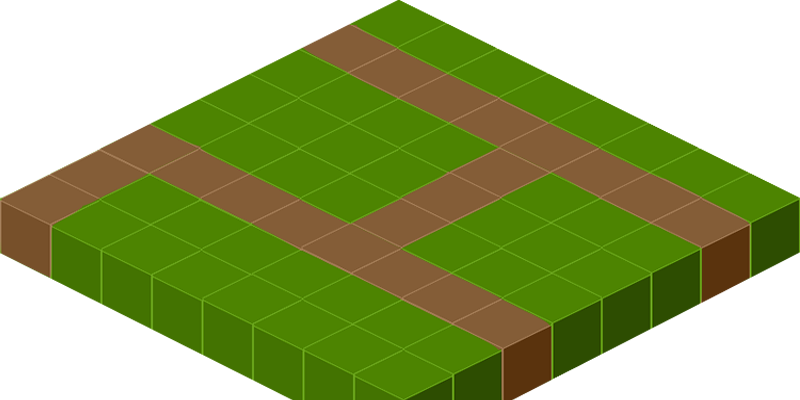
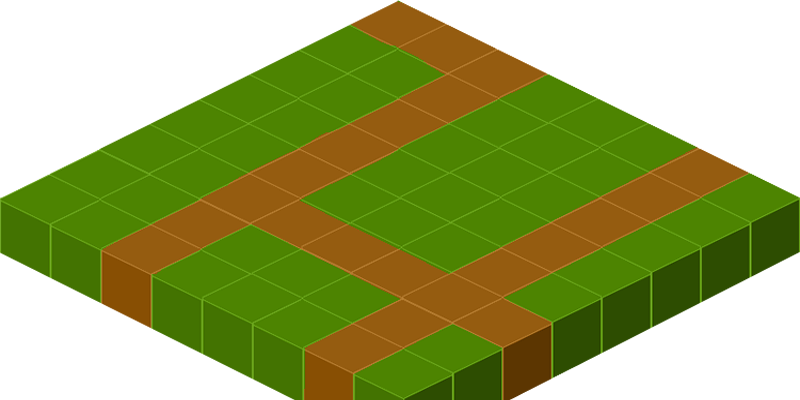
Added isometric sprites, and positioning

diff --git a/asset/js/funcoding.js b/asset/js/funcoding.js
@@ -118,7 +118,7 @@ FunCoding = (function() {
             },
 
             'w': {
-                set: function(w) { this.node.css('width', (w * 2) + 'px'); console.log(w*2); },
+                set: function(w) { this.node.css('width', (w * 2) + 'px'); },
                 get: function() { return parseInt(this.node.css('width')) / 2; } },
 
             'h': {
@@ -154,8 +154,6 @@ FunCoding = (function() {
             if(time) {
                 var isoX = x - y;
                 var isoY = (x + y) / 2;
-                console.log(x + " " + y);
-                console.log(isoX + " " + isoY);
                 this.node.animate({
                     left: isoX + 400,
                     top:  isoY,
@@ -336,7 +334,7 @@ FunCoding = (function() {
         function ExclamationMark(r, c, root, takeAnimCb, useCb) {
             this.baseClass.call(this,
                 new GameObject(
-                    $('<image src="asset/img/point.png" style="top:10px;left:10px;width:30px"/>'),
+                    $('<image src="asset/img/point.png" style="top:0px;left:0px;width:50px"/>'),
                     (c * 50), (r * 50)
                 ).addTo(root),
                 undefined, undefined, takeAnimCb, useCb
@@ -512,7 +510,6 @@ FunCoding = (function() {
                     }
                 ]);
             } else {
-                console.log(thiz.obj.x + " " + thiz.obj.y);
                 return sequence([
                     function(finish) {
                         thiz.setObjPos(br, bc);
@@ -552,19 +549,19 @@ FunCoding = (function() {
 
         Player.getNormalFace = function() {
             return [
-                $('<img style="height:40px;left:12px;top:5px;" src="asset/img/Orang_up.png"/>'),
-                $('<img style="height:40px;left:12px;top:5px;" src="asset/img/Orang_left.png"/>'),
-                $('<img style="height:40px;left:12px;top:5px;" src="asset/img/Orang_down.png"/>'),
-                $('<img style="height:40px;left:12px;top:5px;" src="asset/img/Orang_right.png"/>'),
+                $('<img style="height:40px;left:15px;" src="asset/img/Orang_up.png"/>'),
+                $('<img style="height:40px;left:15px;" src="asset/img/Orang_left.png"/>'),
+                $('<img style="height:40px;left:15px;" src="asset/img/Orang_down.png"/>'),
+                $('<img style="height:40px;left:15px;" src="asset/img/Orang_right.png"/>'),
             ];
         }
 
         Player.getBikerFace = function() {
             return [
-                $('<img style="height:40px;left:12px;top:5px;" src="asset/img/Motor_up.png"/>'),
-                $('<img style="height:40px;left:12px;top:5px;" src="asset/img/Motor_left.png"/>'),
-                $('<img style="height:40px;left:12px;top:5px;" src="asset/img/Motor_down.png"/>'),
-                $('<img style="height:40px;left:12px;top:5px;" src="asset/img/Motor_right.png"/>'),
+                $('<img style="height:40px;left:12px;" src="asset/img/Motor_up.png"/>'),
+                $('<img style="height:40px;left:12px;" src="asset/img/Motor_left.png"/>'),
+                $('<img style="height:40px;left:12px;" src="asset/img/Motor_down.png"/>'),
+                $('<img style="height:40px;left:12px;" src="asset/img/Motor_right.png"/>'),
             ];
         }
 

diff --git a/asset/js/level3_backend.js b/asset/js/level3_backend.js
@@ -31,7 +31,8 @@ $(function() {
     // static image
     (function() {
         new FunCoding.GameObject(
-            $('<image style="width:400px;height:400px" src="asset/img/supermarket-lantai 8x8.png"/>')
+            $('<image style="width:800px;height:400px" src="asset/img/supermarket-lantai 8x8.png"/>'),
+            -187.5, 187.5
         ).addTo(root);
 
         for(r in obstacle) for(c in obstacle[r]) {
@@ -59,7 +60,7 @@ $(function() {
                 new FunCoding.GameObject(
                     [
                         $('<image style="top:8px;width:50px" src="asset/img/table.png"/>'),
-                        $('<image style="left:10px;width:30px" src="asset/img/supermarket-keju.png" />')
+                        $('<image style="top:5px;left:10px;width:30px" src="asset/img/supermarket-keju.png" />')
                     ],
                     (c * 50), (r * 50)
                 ).addTo(root);
@@ -97,14 +98,14 @@ $(function() {
 
             else if(obstacle[r][c] == 9) {
                 new FunCoding.GameObject(
-                    $('<image src="asset/img/supermarket-kasir.png" style="height:40px;left:12px;top:5px;"/>'),
+                    $('<image src="asset/img/supermarket-kasir.png" style="height:40px;"/>'),
                     (c * 50), (r * 50)
                 ).addTo(root);
             }
         }
 
         new FunCoding.GameObject(
-            $('<img src="asset/img/Mat.png" style="height:40px;left:5px;top:12px;"/>'),
+            $('<img src="asset/img/Mat.png" style="width:50px;left:5px;top:12px;"/>'),
             (endpoint.c * 50), (endpoint.r * 50)
         ).addTo(root)
     })();

diff --git a/asset/js/level1_backend.js b/asset/js/level1_backend.js
@@ -38,20 +38,20 @@ $(function() {
         for(r in obstacle) for(c in obstacle[r]) {
             if(obstacle[r][c] == 1) {
                 new FunCoding.GameObject(
-                    $('<image style="top:0px;width:50px" src="asset/img/table.png"/>'),
+                    $('<image style="top:8px;width:50px" src="asset/img/table.png"/>'),
                     (c * 50), (r * 50)
                 ).addTo(root);
             }
             else if(obstacle[r][c] == 9) {
                 new FunCoding.GameObject(
-                    $('<image src="asset/img/Mother.png" style="height:40px;left:12px;top:5px;"/>'),
+                    $('<image src="asset/img/Mother.png" style="height:40px;left:12px;"/>'),
                     (c * 50), (r * 50)
                 ).addTo(root);
             }
         }
 
         new FunCoding.GameObject(
-            $('<img src="asset/img/Mat.png" style="height:40px;left:5px;top:12px;"/>'),
+            $('<img src="asset/img/Mat.png" style="width:50px;left:15px;top:15px;"/>'),
             (endpoint.ec * 50), (endpoint.er * 50)
         ).addTo(root)
     })();

diff --git a/asset/js/level5_backend.js b/asset/js/level5_backend.js
@@ -31,7 +31,8 @@ $(function() {
     // static image
     (function() {
         new FunCoding.GameObject(
-            $('<image style="width:400px;height:400px" src="asset/img/Lantai_Rumah 8x8.png"/>')
+            $('<image style="width:800px;height:400px" src="asset/img/Lantai_Rumah 8x8.png"/>'),
+            -187.5, 187.5
         ).addTo(root);
 
         for(r in obstacle) for(c in obstacle[r]) {
@@ -50,7 +51,7 @@ $(function() {
         }
 
         new FunCoding.GameObject(
-            $('<img src="asset/img/Mat.png" style="height:40px;left:5px;top:12px;"/>'),
+            $('<img src="asset/img/Mat.png" style="width:50px;left:15px;top:15px;"/>'),
             (7 * 50), (0 * 50)
         ).addTo(root)
     })();

diff --git a/asset/js/level4_backend.js b/asset/js/level4_backend.js
@@ -44,11 +44,12 @@ $(function() {
     // static object
     (function() {
         new FunCoding.GameObject(
-            $('<image src="asset/img/jalanan.png" style="width:400px;height:400px"/>')
+            $('<image src="asset/img/jalanan.png" style="width:800px;height:400px"/>'),
+            -187.5, 187.5
         ).addTo(root);
 
         new FunCoding.GameObject(
-            $('<img src="asset/img/Mat.png" style="height:40px;left:5px;top:12px;"/>'),
+            $('<img src="asset/img/Mat.png" style="width:50px;left:-15px;top:5px;"/>'),
             (endpoint.ec * 50), (endpoint.er * 50)
         ).addTo(root);
 

diff --git a/asset/js/level2_backend.js b/asset/js/level2_backend.js
@@ -49,7 +49,7 @@ $(function() {
         ).addTo(root);
 
         new FunCoding.GameObject(
-            $('<img src="asset/img/Mat.png" style="height:40px;left:5px;top:12px;"/>'),
+            $('<img src="asset/img/Mat.png" style="width:50px;left:-15px;top:5px;"/>'),
             (endpoint.sc * 50), (endpoint.sr * 50)
         ).addTo(root);
 
